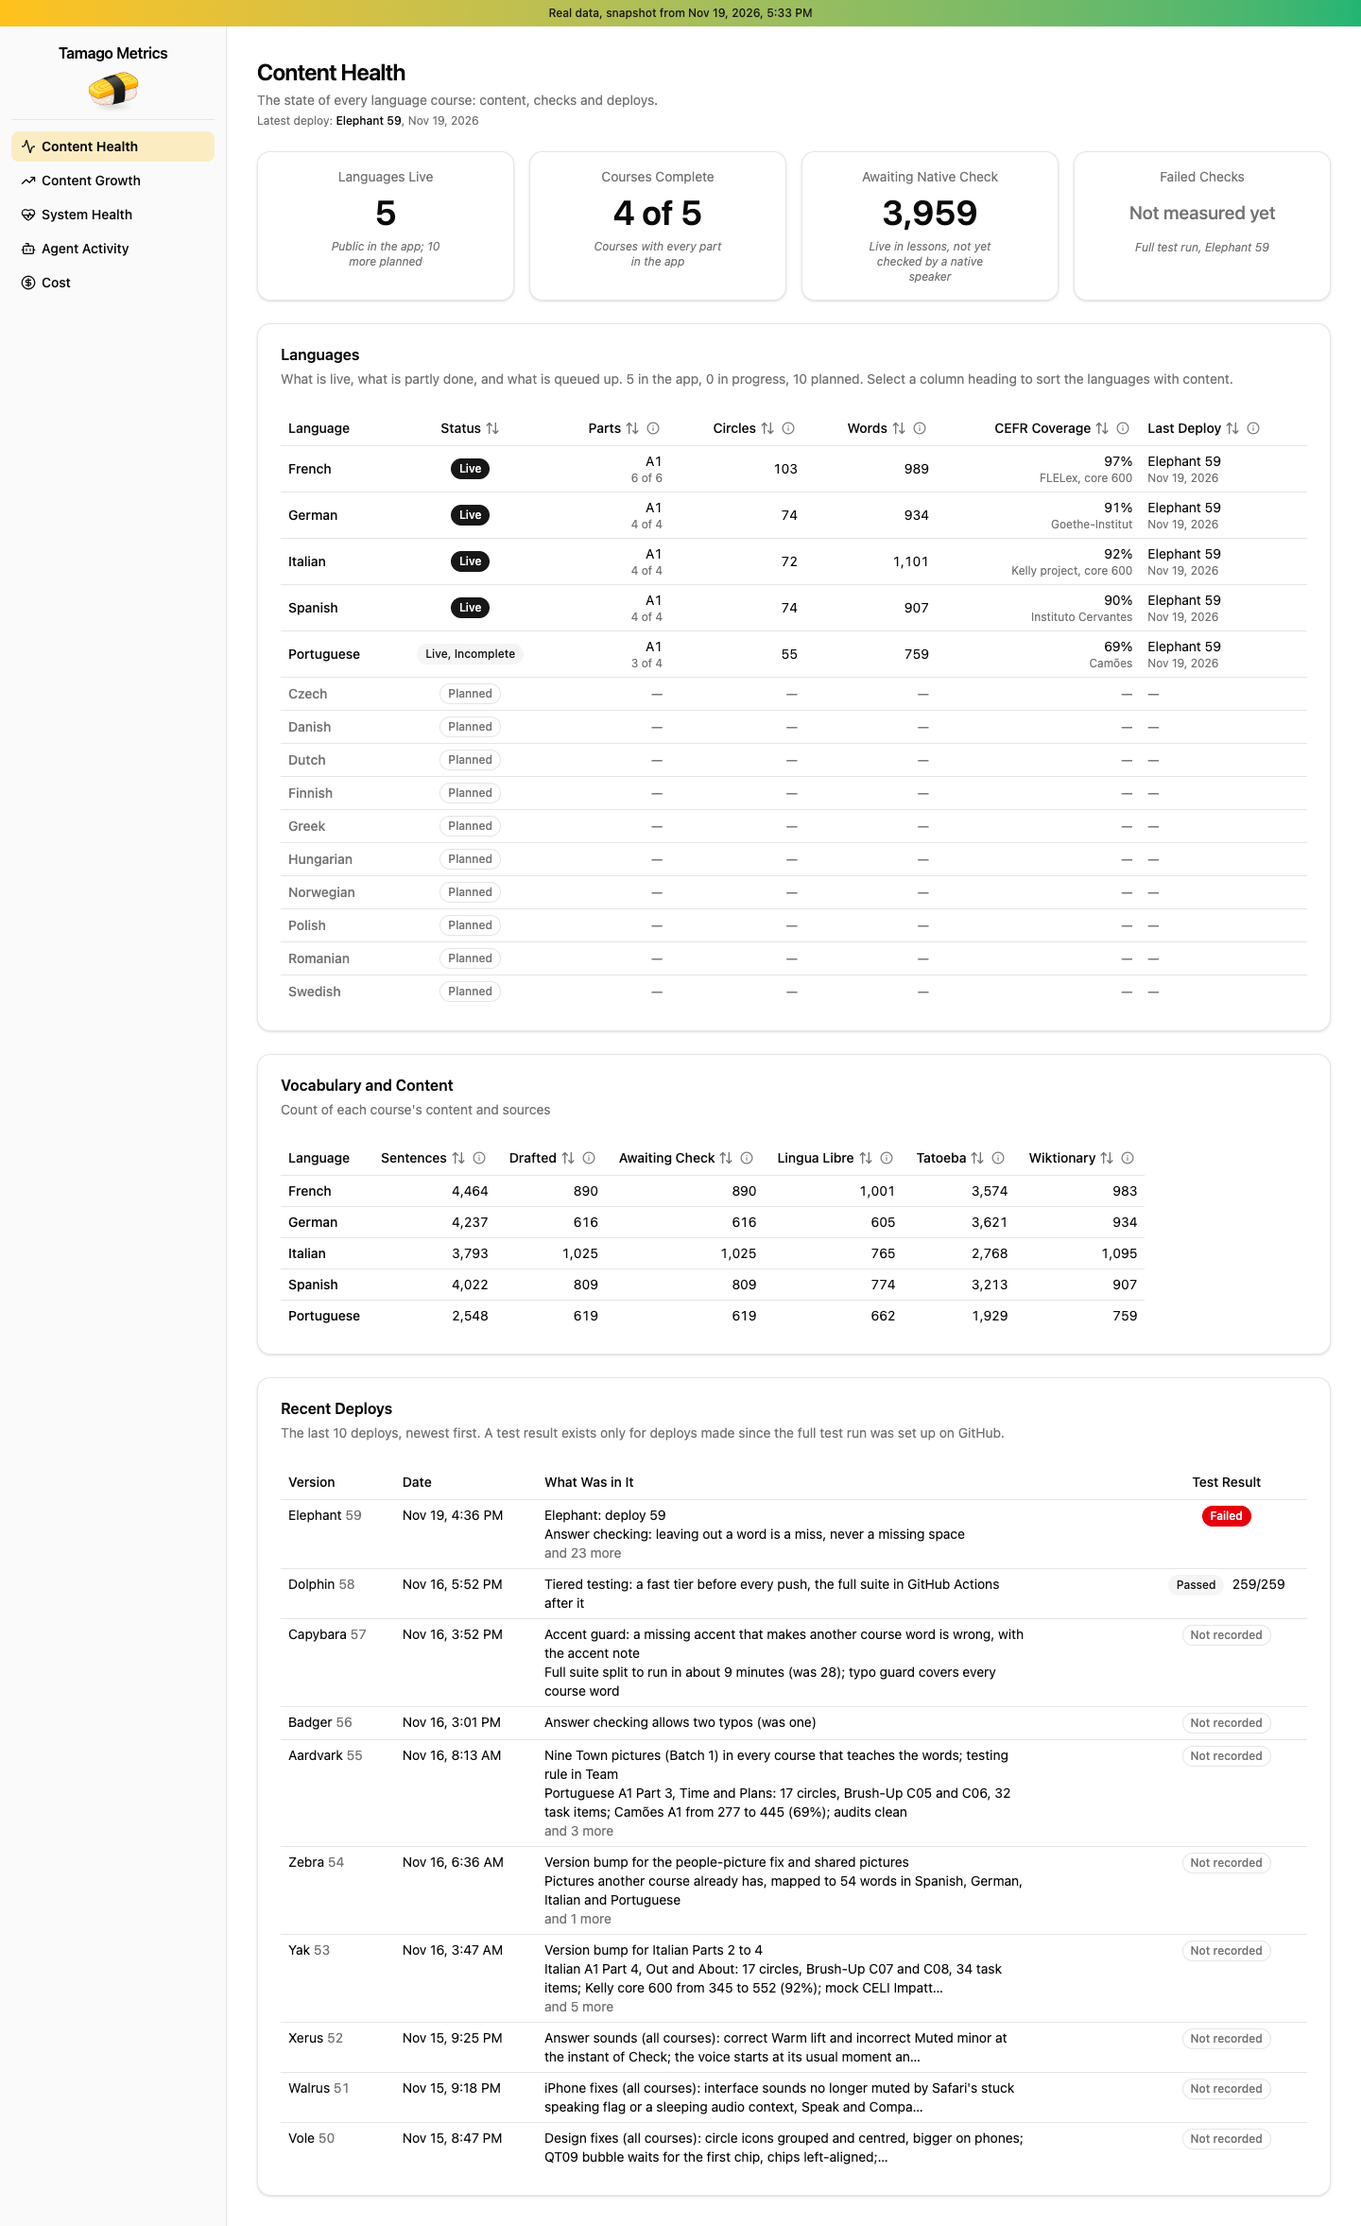
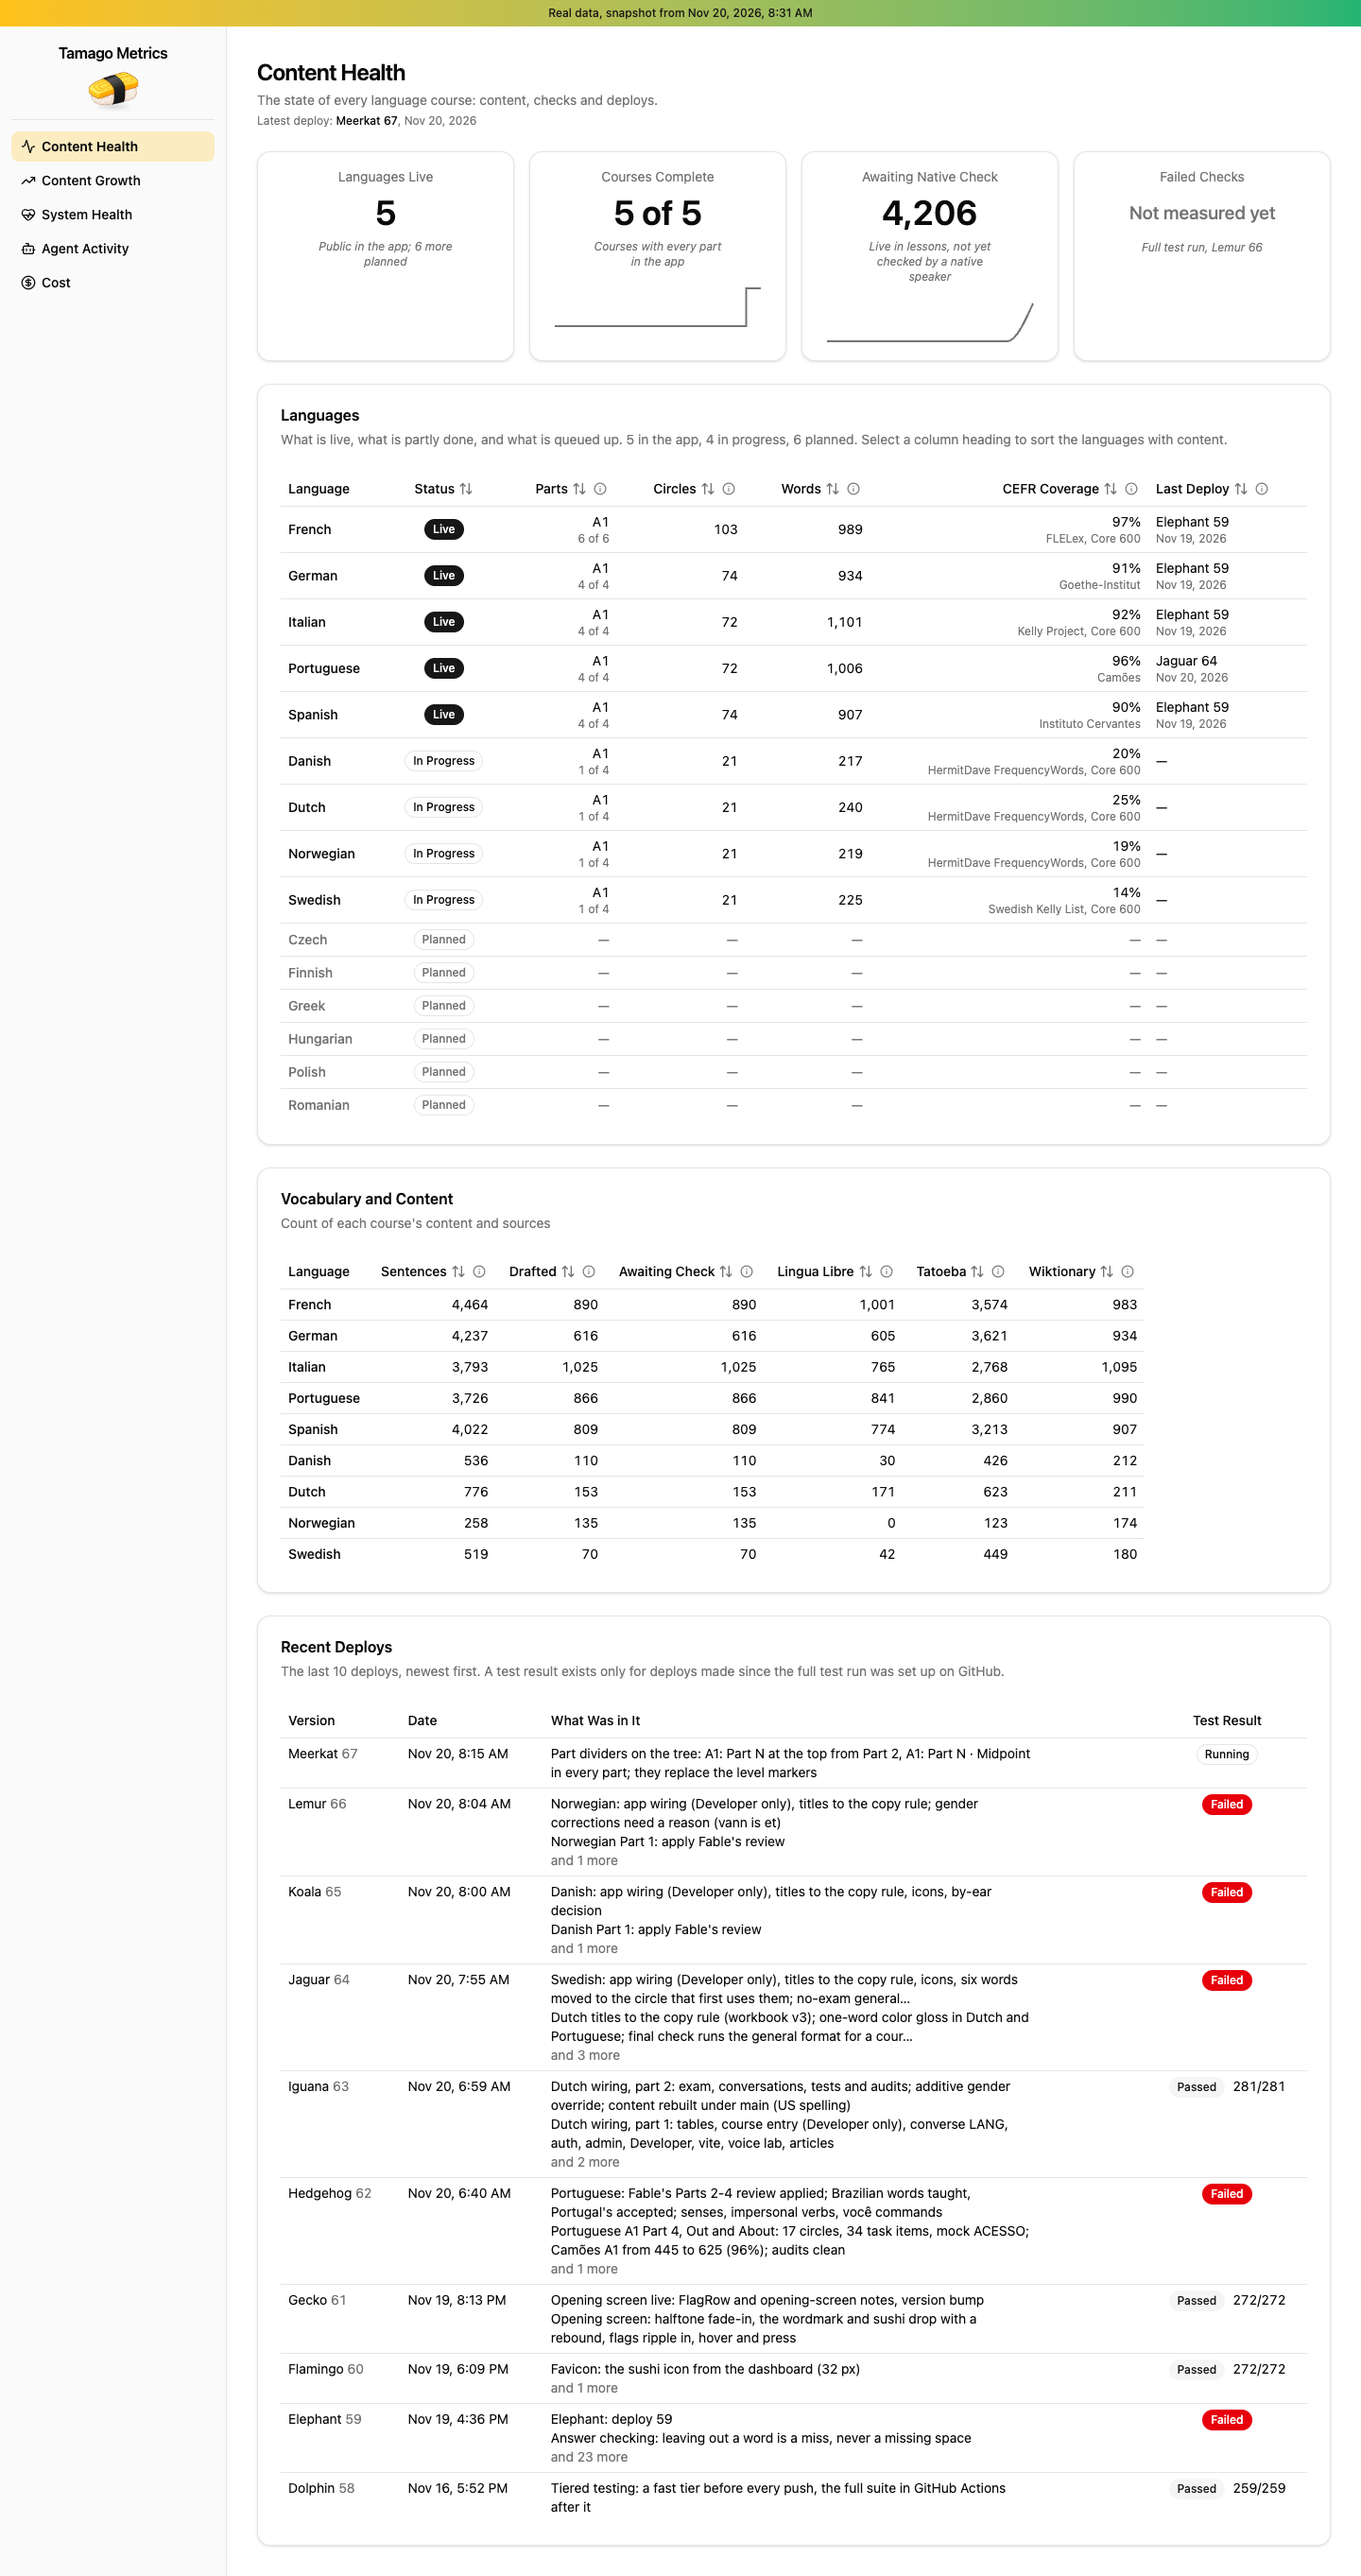
Content Health: coverage list names capitalised as labels (Kelly Project, Swedish Kelly List, HermitDave FrequencyWords, Core 600)

diff --git a/src/data/real-content.ts b/src/data/real-content.ts
@@ -72,11 +72,18 @@ export function formatParts(language: RealLanguage): string {
   return fill(labelsJson.parts, { live: formatCount(language.partsLive), total: formatCount(language.partsTotal) })
 }
 
-/** The list a coverage figure is measured against, e.g. "FLELex, core 600" or "Goethe-Institut". */
+/**
+ * A list or scope name as the page shows it. Tamago's report writes some in lower case ("Kelly project", "core 600");
+ * on the page they are labels, so they are capitalised from labels.json. Names not listed there show as written.
+ */
+const displayNames: Record<string, string> = labelsJson.coverageList.displayNames
+const displayName = (name: string) => displayNames[name] ?? name
+
+/** The list a coverage figure is measured against, e.g. "FLELex, Core 600" or "Goethe-Institut". */
 export function coverageListLabel(coverage: Coverage): string {
   return coverage.scope === FULL_LIST_SCOPE
-    ? fill(labelsJson.coverageList.fullList, { list: coverage.list })
-    : fill(labelsJson.coverageList.scoped, { list: coverage.list, scope: coverage.scope })
+    ? fill(labelsJson.coverageList.fullList, { list: displayName(coverage.list) })
+    : fill(labelsJson.coverageList.scoped, { list: displayName(coverage.list), scope: displayName(coverage.scope) })
 }
 
 // ── Deploys ──────────────────────────────────────────────────────────────────
